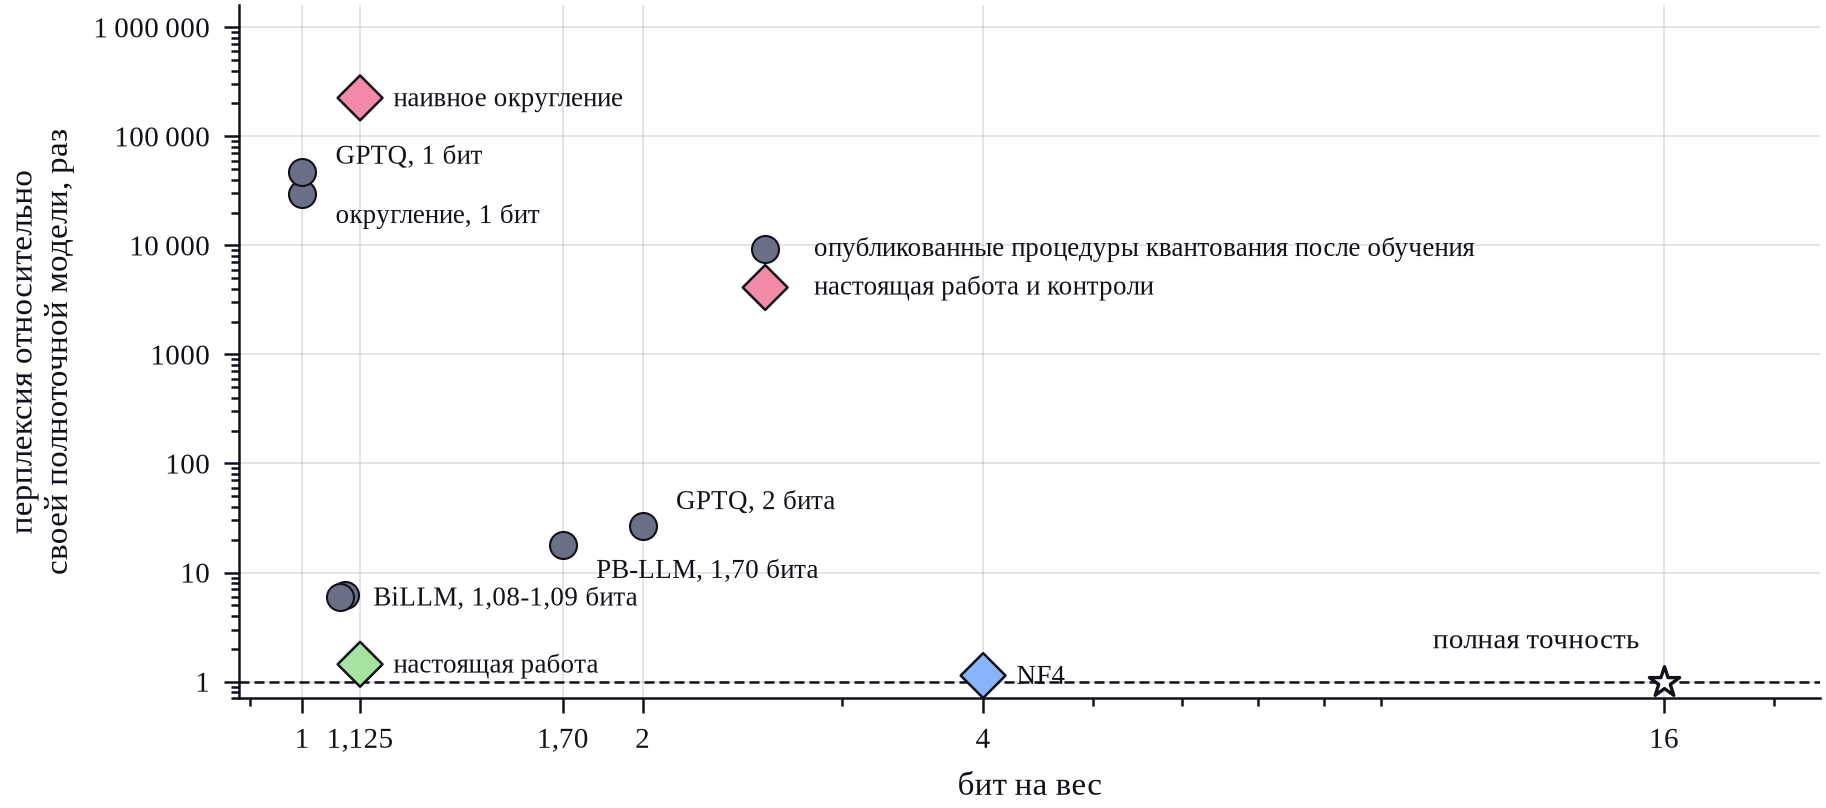
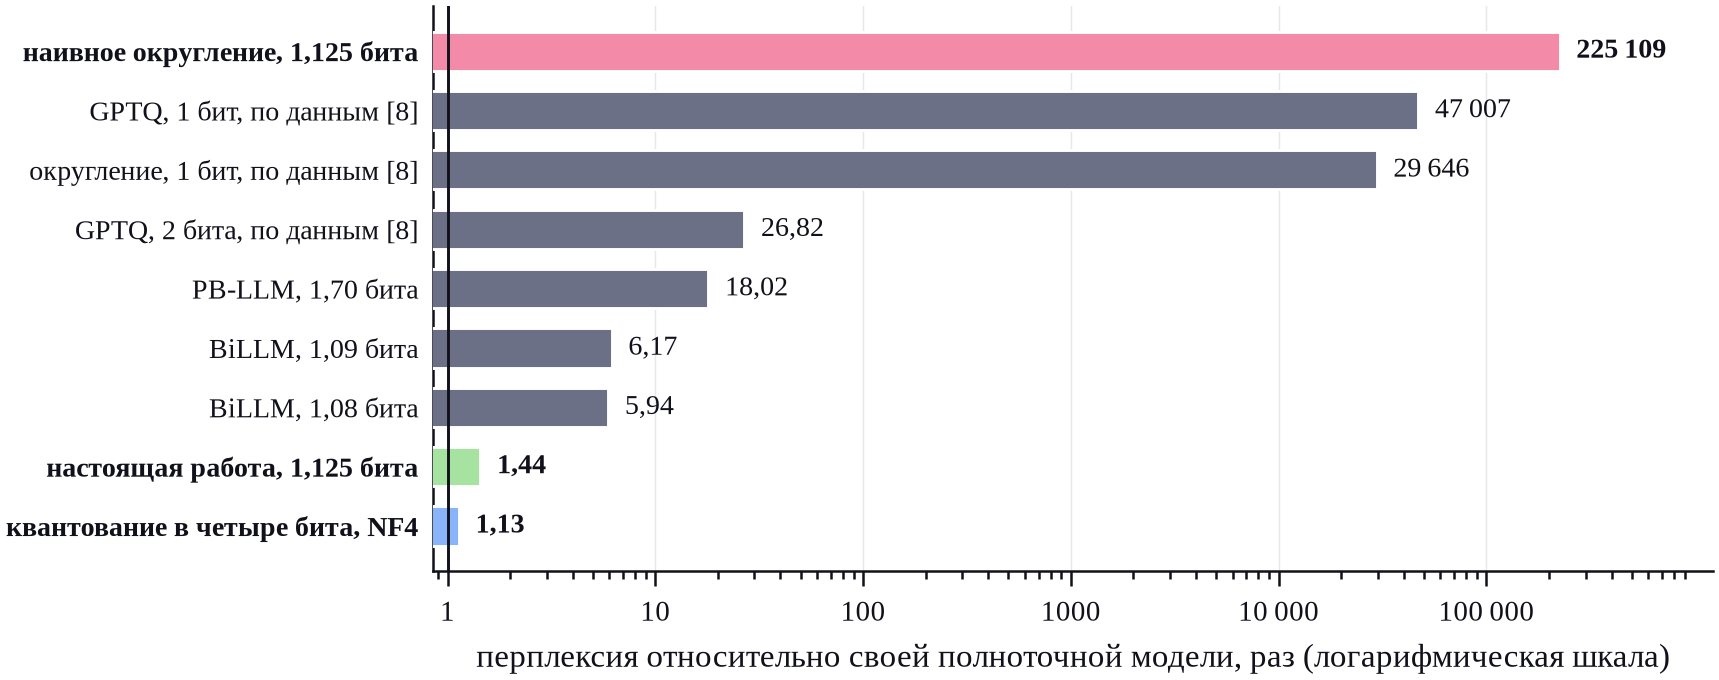
docs: redraw the figures so they belong in a paper
The scatter of quality against bit width looked airy and read badly: six
orders of magnitude on one axis push every point against an edge, and the
labels had nowhere to sit. It is bars again, sorted worst to best, with
this work and its controls picked out in colour and weight.

The other two are tightened the same way: golden-ratio panels, hairline
grid, plain numbers instead of 10^2 on the log axis, series named in the
caption rather than floating over the bars.

Changed region(s): [[0.0, 0.0, 1.0, 0.9265], [0.2775, 0.9574, 0.9866, 0.9882], [0.7708, 0.7721, 0.8941, 0.8029]]

diff --git a/distill/figures.py b/distill/figures.py
@@ -152,26 +152,35 @@ def finish(fig, path: Path):
 def fig_deciles(signature: dict, out: Path):
     """Sign inversions by decile of the original weight - the training signature.
 
-    Log scale: the point is that the two ends differ by three orders of
-    magnitude, and on a linear axis the last four deciles are invisible.
+    Log scale: the ends differ by three orders of magnitude, and on a linear
+    axis the last four deciles are invisible.
     """
     import matplotlib.pyplot as plt
 
     share = [v * 100 for v in signature["deciles"]]
-    fig, ax = plt.subplots(figsize=(WIDTH, 2.1))
-    ax.bar(range(1, 11), share, color=MOCHA["mauve"],
-           edgecolor=MOCHA["surface"], linewidth=0.5, width=0.72)
+    mean = signature["flipped_share"] * 100
+    fig, ax = plt.subplots(figsize=(WIDTH, WIDTH / 1.62))
+    bars = ax.bar(range(1, 11), share, color=MOCHA["mauve"], width=0.7,
+                  edgecolor="white", linewidth=0.6, zorder=3)
     ax.set_yscale("log")
+    ax.set_ylim(0.012, max(share) * 4.5)
     ax.set_xticks(range(1, 11))
+    ax.set_xlim(0.4, 10.6)
     ax.set_xlabel("дециль модуля исходного веса")
     ax.set_ylabel("знаков перевёрнуто, %")
-    ax.axhline(signature["flipped_share"] * 100, color=MOCHA["red"],
-               linewidth=0.8, linestyle=(0, (4, 2)))
-    ax.set_ylim(top=max(share) * 3.2)
-    ax.annotate(f"в среднем {ru(signature['flipped_share'] * 100, 1)} %",
-                xy=(10.4, signature["flipped_share"] * 100), ha="right",
-                va="bottom", color=MOCHA["red"], fontsize=7)
-    ax.grid(axis="y", color=MOCHA["overlay"], alpha=0.25, linewidth=0.4)
+    ax.axhline(mean, color=MOCHA["red"], linewidth=0.9, linestyle=(0, (5, 2)),
+               zorder=4)
+    ax.annotate(f"в среднем {ru(mean, 1)} %", xy=(10.5, mean), xytext=(0, 5),
+                textcoords="offset points", ha="right", va="bottom",
+                color=MOCHA["red"], fontsize=7)
+    # Only the ends are labelled: the shape carries the middle.
+    for i in (0, 9):
+        ax.annotate(ru(share[i], 2 if share[i] < 1 else 1),
+                    xy=(i + 1, share[i]), xytext=(0, 3),
+                    textcoords="offset points", ha="center", fontsize=6.5)
+    comma_axis(ax, "y")
+    ax.grid(axis="y", color=MOCHA["overlay"], alpha=0.18, linewidth=0.35,
+            zorder=0)
     ax.set_axisbelow(True)
     finish(fig, out / "deciles.png")
 
@@ -387,62 +396,54 @@ if __name__ == "__main__":       # usable without the rest of the package
 # ==============================
 
 def fig_bits_quality(reference: dict, out: Path):
-    """Quality against bit width: where each procedure actually lands.
+    """Every procedure on one axis: ratio to its own full-precision model.
 
-    The bar chart of ratios says which method is better. This says something
-    the bars cannot: what a given bit width buys, and that the frontier is not
-    a smooth curve - at one bit the field splits into procedures that survive
-    and procedures that collapse by five orders of magnitude.
+    Bars, not points: the range spans six orders of magnitude, and on a
+    scatter the rows collapse against the edges. Sorted worst to best, so the
+    reader walks down the list and arrives at the result.
     """
     import matplotlib.pyplot as plt
 
     teacher = reference["teacher"]["wikitext2"]
-    ours = [
-        ("наивное округление", 1.125, reference["naive"]["wikitext2"] / teacher),
-        ("настоящая работа", 1.125, reference["student"]["wikitext2"] / teacher),
-        ("NF4", 4.0, reference["int4"]["wikitext2"] / teacher),
+    rows = [(f"{label}, по данным [8]" if "GPTQ" in label or "округление" in label
+             else label, ratio, MOCHA["overlay"], False)
+            for label, _, ratio, _ in PUBLISHED]
+    rows += [
+        ("наивное округление, 1,125 бита",
+         reference["naive"]["wikitext2"] / teacher, MOCHA["red"], True),
+        ("настоящая работа, 1,125 бита",
+         reference["student"]["wikitext2"] / teacher, MOCHA["green"], True),
+        ("квантование в четыре бита, NF4",
+         reference["int4"]["wikitext2"] / teacher, MOCHA["blue"], True),
     ]
-    theirs = [(label, bits, ratio) for label, bits, ratio, _ in PUBLISHED]
+    rows.sort(key=lambda r: r[1], reverse=True)
 
-    fig, ax = plt.subplots(figsize=(WIDTH * 2.0, 3.0))
-    ax.scatter([b for _, b, _ in theirs], [r for _, _, r in theirs], s=42,
-               color=MOCHA["overlay"], edgecolor=MOCHA["ink"], linewidth=0.5,
-               zorder=4, label="опубликованные процедуры квантования после обучения")
-    ax.scatter([b for _, b, _ in ours], [r for _, _, r in ours], s=58,
-               color=[MOCHA["red"], MOCHA["green"], MOCHA["blue"]],
-               edgecolor=MOCHA["ink"], linewidth=0.6, zorder=5, marker="D",
-               label="настоящая работа и контроли")
-    ax.scatter([16], [1.0], s=58, color="white", edgecolor=MOCHA["ink"],
-               linewidth=0.8, zorder=5, marker="*")
-    ax.annotate("полная точность", xy=(16, 1.0), xytext=(-6, 8),
-                textcoords="offset points", ha="right", fontsize=7)
-
-    # BiLLM contributes two nearly identical points; labelling both collides.
-    OFFSET = {"BiLLM, 1,09 бита": None, "BiLLM, 1,08 бита": (8, -2),
-              "GPTQ, 2 бита": (8, 4), "PB-LLM, 1,70 бита": (8, -8),
-              "округление, 1 бит": (8, -7), "GPTQ, 1 бит": (8, 2)}
-    for label, bits, ratio in theirs + ours:
-        shift = OFFSET.get(label, (8, -2))
-        if shift is None:
-            continue
-        text = "BiLLM, 1,08-1,09 бита" if label.startswith("BiLLM") else label
-        ax.annotate(text, xy=(bits, ratio), xytext=shift,
-                    textcoords="offset points", fontsize=6.5,
-                    color=MOCHA["ink"])
-    ax.axhline(1.0, color=MOCHA["ink"], linewidth=0.6, linestyle=(0, (4, 2)))
-    ax.set_yscale("log")
+    fig, ax = plt.subplots(figsize=(WIDTH * 1.62, WIDTH * 1.62 / 2.25))
+    spot = list(range(len(rows)))
+    ax.barh(spot, [r[1] for r in rows], height=0.66,
+            color=[r[2] for r in rows], edgecolor="white", linewidth=0.7,
+            zorder=3)
+    for y, (_, ratio, colour, mine) in zip(spot, rows):
+        ax.annotate(ru(ratio, 2 if ratio < 100 else 0), xy=(ratio, y),
+                    xytext=(4, 0), textcoords="offset points", va="center",
+                    fontsize=6.8, color=MOCHA["ink"],
+                    fontweight="bold" if mine else "normal")
+    ax.set_yticks(spot)
+    ax.set_yticklabels([r[0] for r in rows], fontsize=6.8)
+    for tick, row in zip(ax.get_yticklabels(), rows):
+        if row[3]:
+            tick.set_fontweight("bold")
+    ax.invert_yaxis()
     ax.set_xscale("log")
-    ax.set_xticks([1, 1.125, 1.7, 2, 4, 16])
-    ax.set_xticklabels(["1", "1,125", "1,70", "2", "4", "16"])
-    ax.set_xlabel("бит на вес")
-    ax.set_ylabel("перплексия относительно\nсвоей полноточной модели, раз")
-    ax.set_xlim(0.88, 22)
-    ax.set_ylim(0.7, 10 ** 6.2)
-    comma_axis(ax, "y")
-    ax.grid(color=MOCHA["overlay"], alpha=0.22, linewidth=0.4)
+    ax.set_xlim(0.85, max(r[1] for r in rows) * 5.5)
+    ax.axvline(1.0, color=MOCHA["ink"], linewidth=0.7, zorder=4)
+    ax.set_xlabel("перплексия относительно своей полноточной модели, раз "
+                  "(логарифмическая шкала)")
+    ax.set_xticks([1, 10, 100, 1000, 10 ** 4, 10 ** 5])
+    comma_axis(ax, "x")
+    ax.grid(axis="x", color=MOCHA["overlay"], alpha=0.16, linewidth=0.35)
     ax.set_axisbelow(True)
-    # Away from the top right: legend markers there read as data points.
-    ax.legend(loc="center left", bbox_to_anchor=(0.30, 0.62), fontsize=6.5)
+    ax.tick_params(axis="y", length=0)
     finish(fig, out / "bits-quality.png")
 
 
@@ -450,48 +451,45 @@ def fig_memory(out: Path):
     """Where the model's bytes are, before and after.
 
     Explains the gap between the two compression numbers: the blocks shrink
-    14.22-fold, the rest does not shrink at all, and after binarisation the
+    14.22-fold, the rest does not shrink at all, and afterwards the
     unshrinkable part is five sixths of what ships. Totals match table IV.
+    The two colours are named in the caption rather than on the canvas, where
+    the longer name has nowhere to sit without covering a bar.
     """
     import matplotlib.pyplot as plt
 
-    # MB, as measured: blocks, and everything that stays in 16 bits.
-    ROWS = [("16 бит\nвезде", 840.0, 296.9),
+    ROWS = [("16 бит везде", 840.0, 296.9),
             ("1,125 бита\nв блоках", 59.1, 296.8)]
 
-    fig, ax = plt.subplots(figsize=(WIDTH, 2.0))
-    spot = [0, 1]
-    ax.barh(spot, [r[1] for r in ROWS], height=0.55, color=MOCHA["blue"],
-            edgecolor=MOCHA["surface"], linewidth=0.5,
-            label="матрицы блоков (бинаризуются)")
-    ax.barh(spot, [r[2] for r in ROWS], left=[r[1] for r in ROWS], height=0.55,
-            color=MOCHA["peach"], edgecolor=MOCHA["surface"], linewidth=0.5,
-            label="остальное: векторные представления,\nвыходной слой, нормализации")
+    fig, ax = plt.subplots(figsize=(WIDTH, WIDTH / 2.05))
+    spot = [0, 0.66]
+    ax.barh(spot, [r[1] for r in ROWS], height=0.38, color=MOCHA["blue"],
+            edgecolor="white", linewidth=0.7, zorder=3)
+    ax.barh(spot, [r[2] for r in ROWS], left=[r[1] for r in ROWS], height=0.38,
+            color=MOCHA["peach"], edgecolor="white", linewidth=0.7, zorder=3)
 
     for y, (_, blocks, rest) in zip(spot, ROWS):
-        # A slice under ~12% of the axis cannot hold its own label.
         if blocks > 150:
             ax.annotate(ru(blocks, 1), xy=(blocks / 2, y), ha="center",
-                        va="center", fontsize=7)
+                        va="center", fontsize=7, zorder=5)
         else:
-            ax.annotate(ru(blocks, 1), xy=(blocks, y), xytext=(0, 13),
+            # too thin to hold a label: sits just above its own segment
+            ax.annotate(ru(blocks, 1), xy=(blocks / 2, y), xytext=(0, 14),
                         textcoords="offset points", ha="center", fontsize=7,
-                        arrowprops=dict(arrowstyle="-", lw=0.5,
-                                        color=MOCHA["surface"]))
+                        color=MOCHA["ink"], zorder=5)
         ax.annotate(ru(rest, 1), xy=(blocks + rest / 2, y), ha="center",
-                    va="center", fontsize=7)
+                    va="center", fontsize=7, zorder=5)
         ax.annotate(f"{ru(blocks + rest, 1)} МБ", xy=(blocks + rest, y),
-                    xytext=(5, 0), textcoords="offset points", va="center",
+                    xytext=(6, 0), textcoords="offset points", va="center",
                     fontsize=7.5)
 
     ax.set_yticks(spot)
     ax.set_yticklabels([r[0] for r in ROWS])
-    ax.set_ylim(1.75, -0.75)
+    ax.set_ylim(1.04, -0.34)
     ax.set_xlabel("объём хранения, МБ")
-    ax.set_xlim(0, 1400)
+    ax.set_xlim(0, 1290)
     comma_axis(ax, "x")
-    ax.legend(loc="lower right", fontsize=6.5, borderpad=0.2,
-              labelspacing=0.35)
-    ax.grid(axis="x", color=MOCHA["overlay"], alpha=0.22, linewidth=0.4)
+    ax.grid(axis="x", color=MOCHA["overlay"], alpha=0.16, linewidth=0.35)
     ax.set_axisbelow(True)
+    ax.tick_params(axis="y", length=0)
     finish(fig, out / "memory.png")
